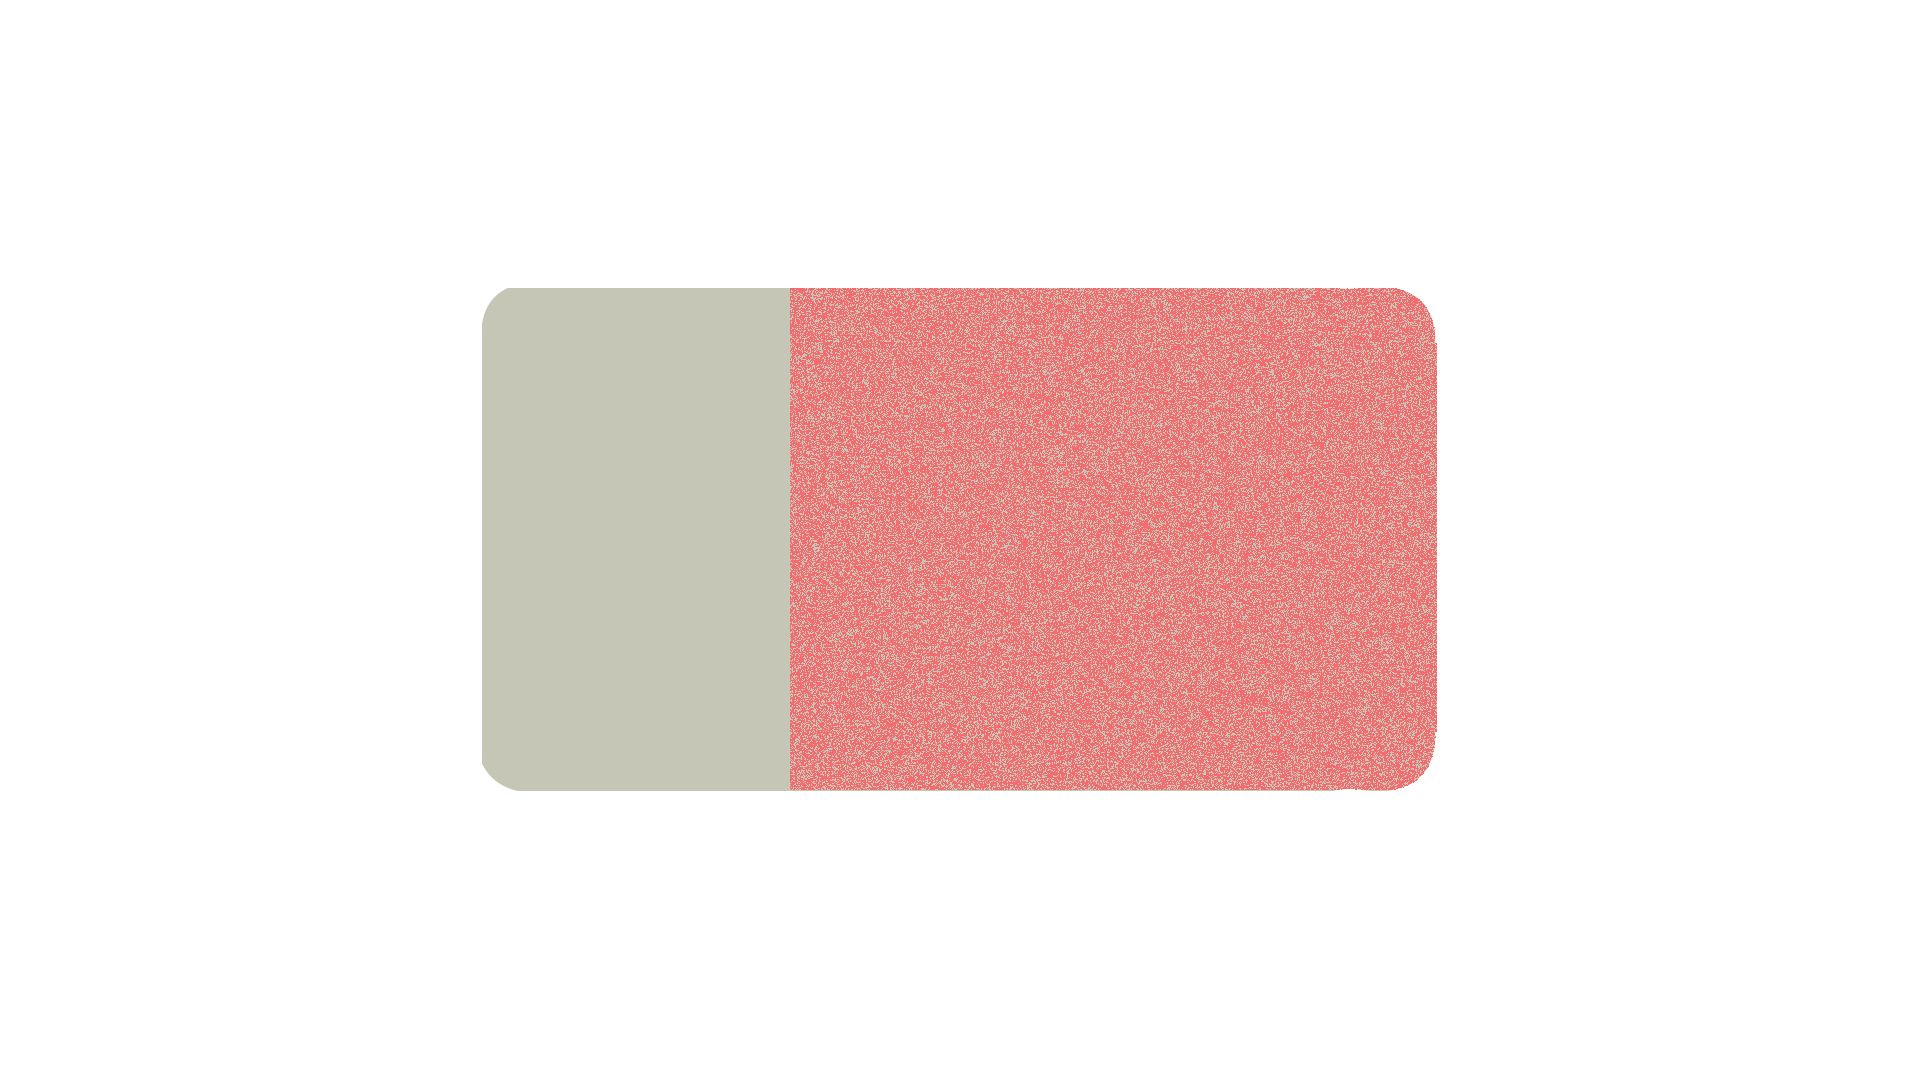
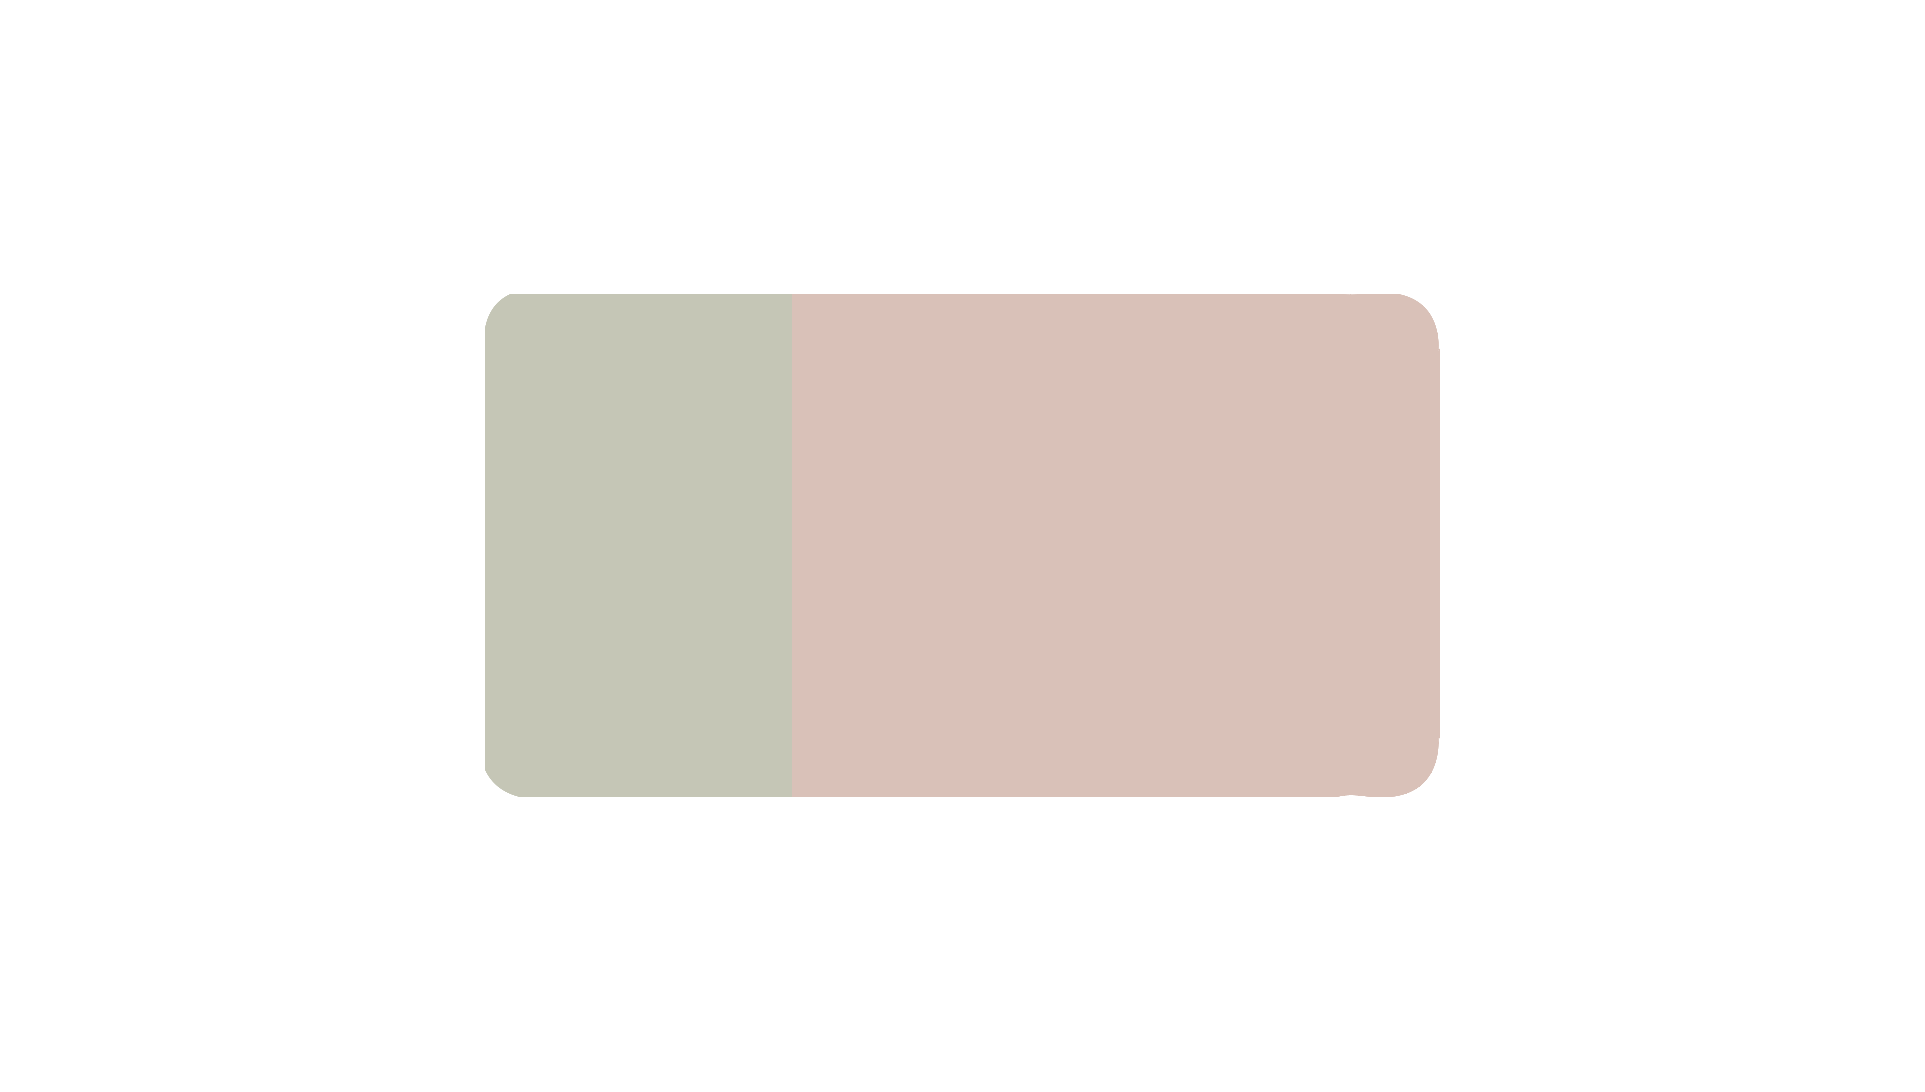
main3 css 수정 색변경

Changed region(s): [[0.4062, 0.2444, 0.75, 0.7333], [0.25, 0.7028, 0.2812, 0.7333]]

diff --git a/search/static/css/search.css b/search/static/css/search.css
@@ -269,8 +269,8 @@ span {
   }
 
   img {
-    max-height: 340px;
-    max-width: 340px;
+    max-height: 250px;
+    max-width: 250px;
   }
 
   .modal {
@@ -279,7 +279,7 @@ span {
   }
 
   .modal_image {
-    max-width: 300px;
+    max-width: 350px;
   }
 
   .modal_product_name {

diff --git a/posts/static/css/main.css b/posts/static/css/main.css
@@ -263,9 +263,11 @@ ul {
     padding-left: 40px;
   }
 
-  .list,
-  .fa-heart {
+  .list{
     font-size: 12px;
+    font-weight: 500;
+    padding-left: 4px;
+    padding-right: 4px;
   }
 
   .instagrams {
